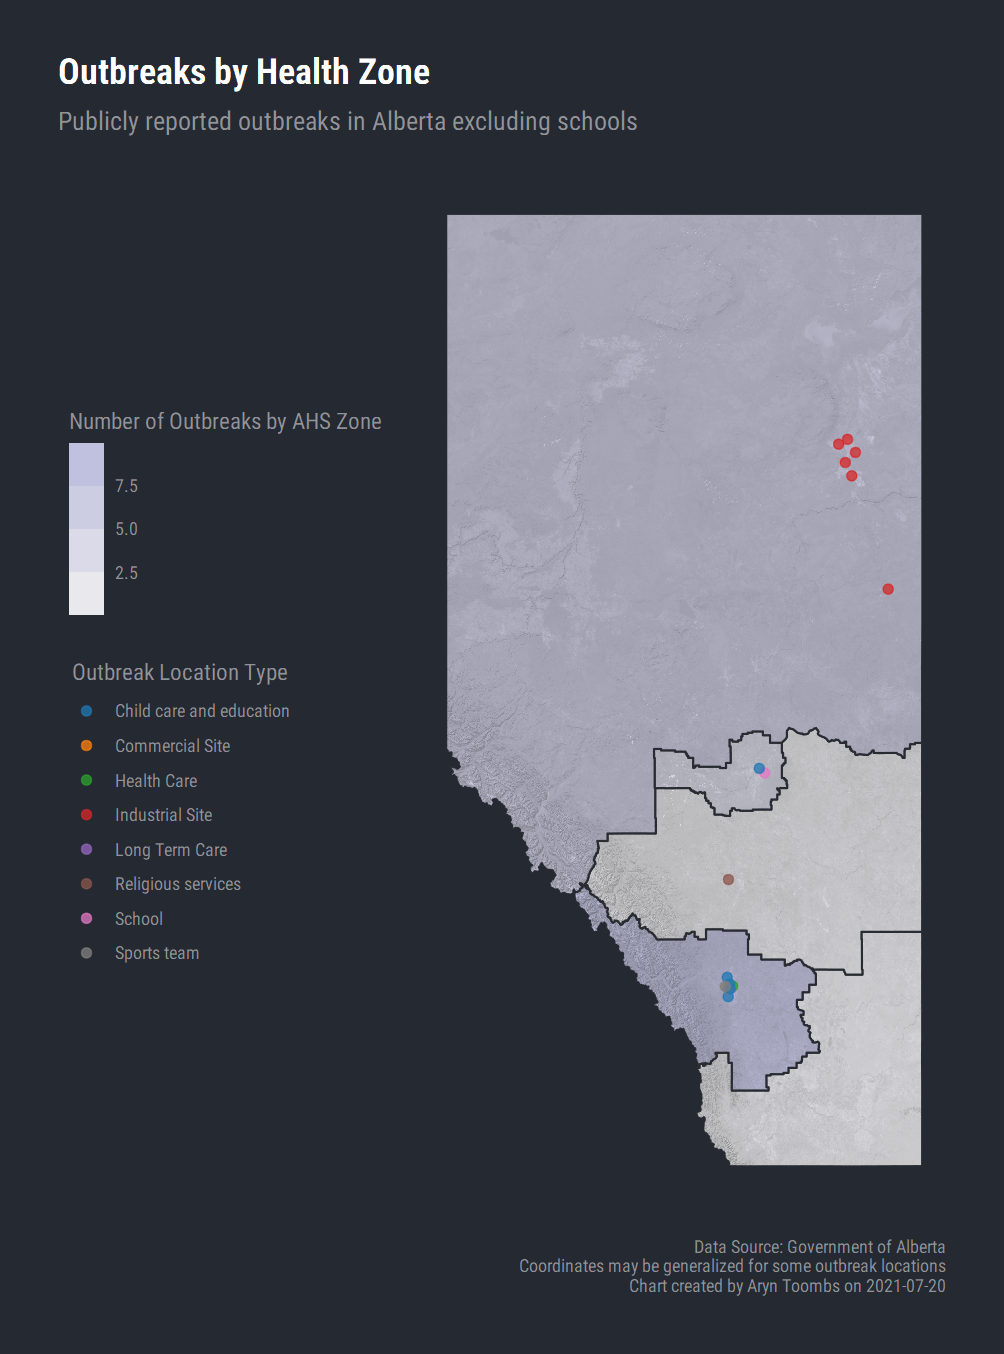
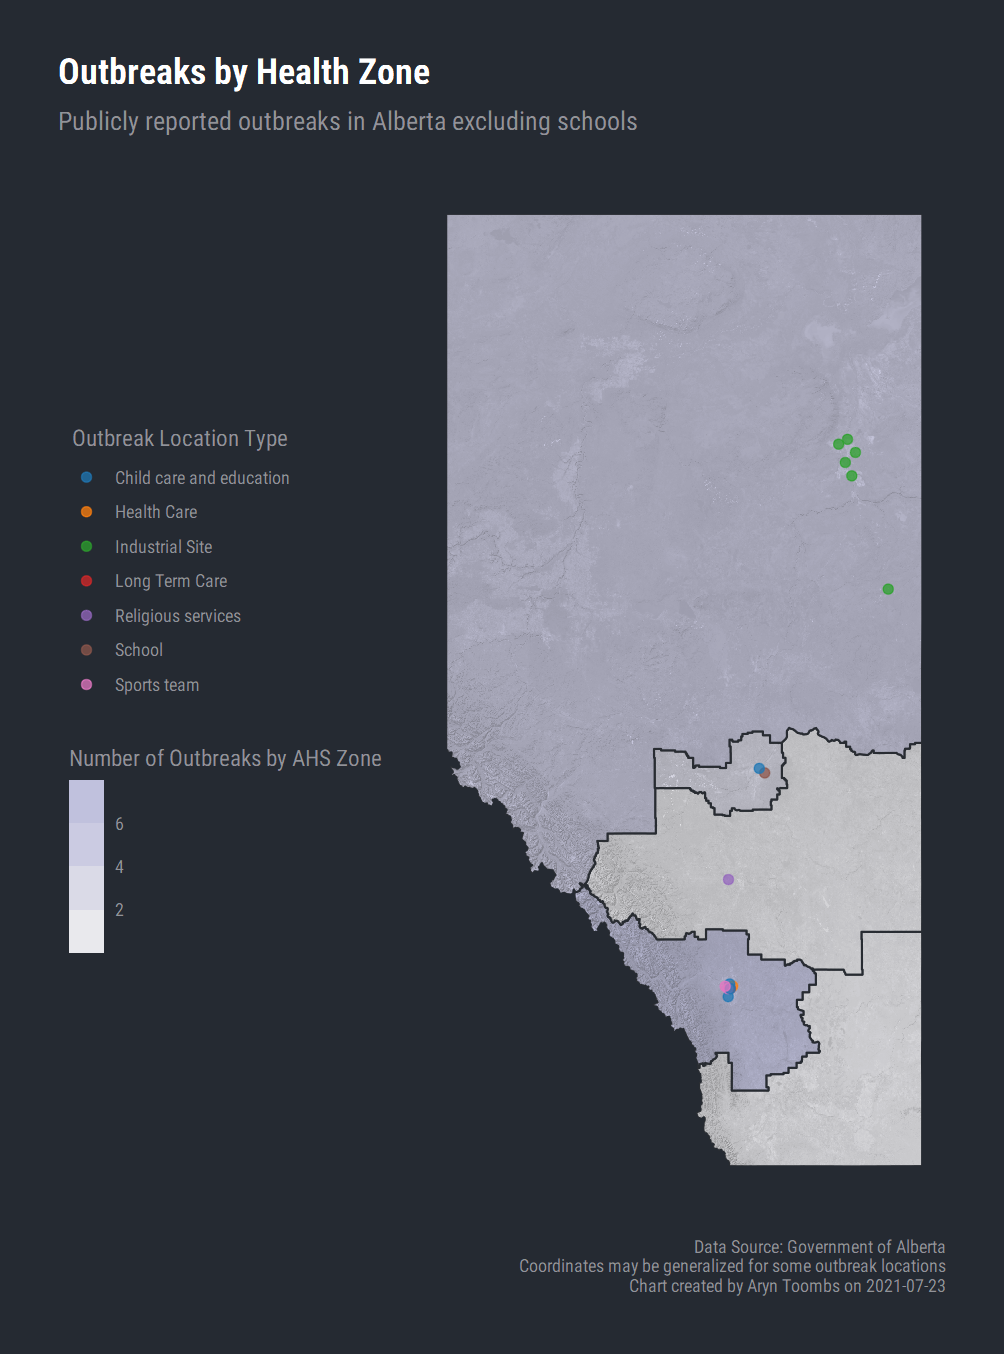
web

diff --git a/outbreaks/index.html b/outbreaks/index.html
@@ -162,7 +162,7 @@
       Calgary Zone
     </div>
     <div class="row box-bottom justify-content-center">
-      <h4>9</h4>
+      <h4>7</h4>
     </div>
   </div>
   <div class="col-sm ml-1 mr-1">
@@ -199,7 +199,7 @@
   </div>
 </div>
 <div class="row mb-3 pr-1 pt-1 justify-content-end">
-  <p class="m-1"><i class="bi bi-info-circle-fill"></i> Covid-19 outbreaks (not including schools, see below) current as of Tue, Jul 20, 2021. AHS non-school outbreak data updated on Tuesdays and Fridays.</p>
+  <p class="m-1"><i class="bi bi-info-circle-fill"></i> Covid-19 outbreaks (not including schools, see below) current as of Fri, Jul 23, 2021. AHS non-school outbreak data updated on Tuesdays and Fridays.</p>
 </div>
   <div class="row pl-3">
     <h4 class="body-display">Outbreak Charts</h4>
